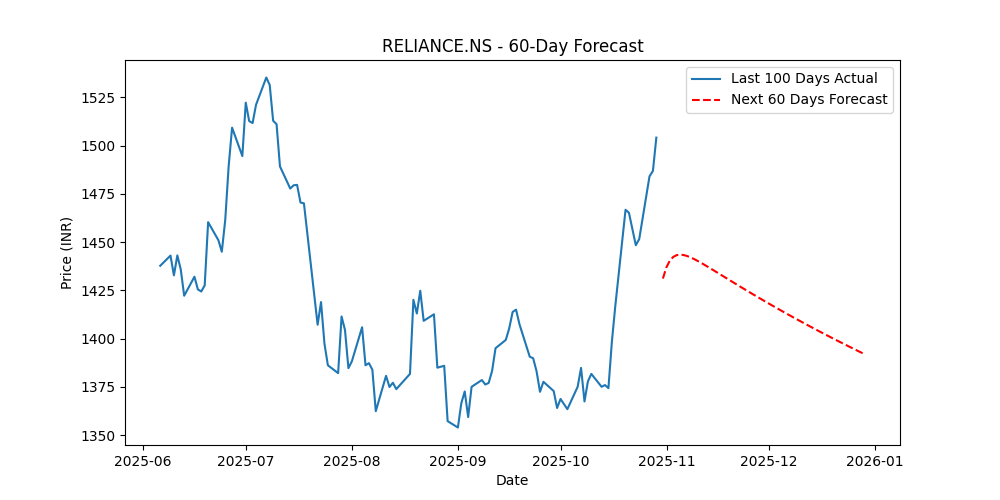
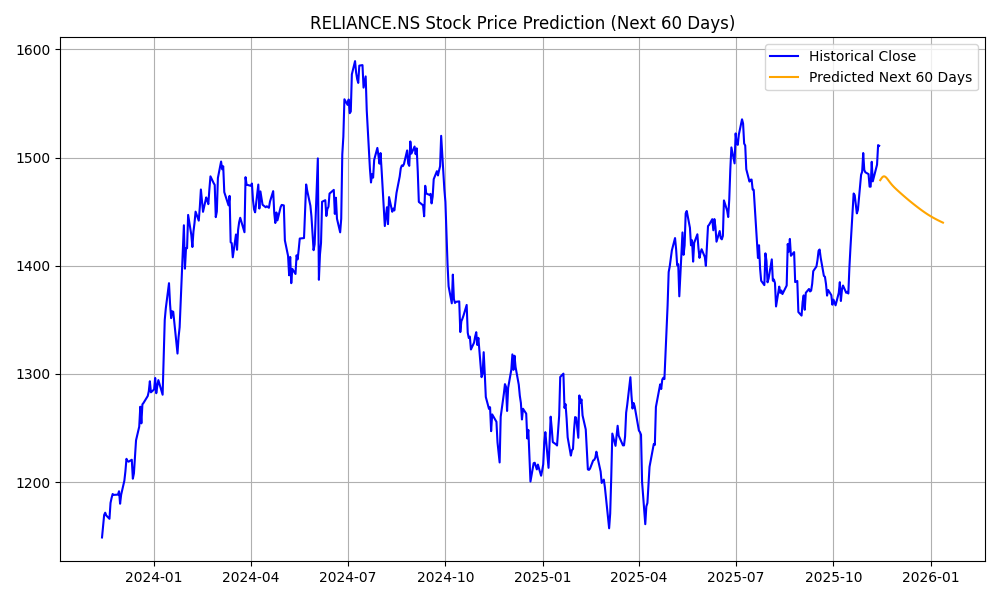
frontend

diff --git a/frontend/script.js b/frontend/script.js
@@ -1,0 +1,63 @@
+
+const backendURL = "http://127.0.0.1:8000";  // Change if your FastAPI runs elsewhere
+
+document.getElementById("stockForm").addEventListener("submit", async (e) => {
+  e.preventDefault();
+
+  const stock = document.getElementById("stockInput").value.trim();
+  const resultDiv = document.getElementById("result");
+  resultDiv.innerHTML = `<div class='alert alert-info'>⏳ Analyzing ${stock}...</div>`;
+
+  try {
+    const formData = new FormData();
+    formData.append("stock", stock);
+
+    // Call API
+    const res = await fetch(`${backendURL}/analyze_stock`, {
+      method: "POST",
+      body: formData,
+    });
+
+    const data = await res.json();
+
+    if (res.ok) {
+      const preview = data.data_preview;
+      const charts = data.charts;
+
+      let tableRows = preview.map(item => `
+        <tr>
+          <td>${item.Date}</td>
+          <td>${item.Predicted_Close.toFixed(2)}</td>
+        </tr>
+      `).join("");
+
+      resultDiv.innerHTML = `
+        <div class="card p-4">
+          <h3>✅ Analysis Complete for ${stock}</h3>
+          <h5 class="mt-3">📊 Predicted Next 10 Days</h5>
+          <div class="table-container">
+            <table class="table table-striped">
+              <thead><tr><th>Date</th><th>Predicted Close</th></tr></thead>
+              <tbody>${tableRows}</tbody>
+            </table>
+          </div>
+
+          <h5 class="mt-4">📈 Charts</h5>
+          <div>
+            <img src="${backendURL}${charts.prediction}" alt="Prediction Chart">
+            <img src="${backendURL}${charts.ema_20_50}" alt="EMA 20/50">
+            <img src="${backendURL}${charts.ema_100_200}" alt="EMA 100/200">
+            <img src="${backendURL}${charts.crossover_signals}" alt="Crossover Signals">
+          </div>
+        </div>
+      `;
+    } else {
+      resultDiv.innerHTML = `<div class='alert alert-danger'>❌ Error: ${data.error}</div>`;
+    }
+
+  } catch (error) {
+    console.error(error);
+    resultDiv.innerHTML = `<div class='alert alert-danger'>❌ Something went wrong. Check backend console.</div>`;
+  }
+});
+

diff --git a/frontend/index.html b/frontend/index.html
@@ -1,0 +1,43 @@
+<!DOCTYPE html>
+<html lang="en">
+<head>
+  <meta charset="UTF-8" />
+  <meta name="viewport" content="width=device-width, initial-scale=1.0" />
+  <title>📈 Stock Price Prediction</title>
+  <link href="https://cdn.jsdelivr.net/npm/bootstrap@5.3.0/dist/css/bootstrap.min.css" rel="stylesheet">
+  <style>
+    body {
+      background: #f8fafc;
+      font-family: 'Poppins', sans-serif;
+      padding: 20px;
+    }
+    .card {
+      border-radius: 15px;
+      box-shadow: 0 4px 12px rgba(0,0,0,0.1);
+      margin-top: 20px;
+    }
+    img {
+      width: 100%;
+      border-radius: 10px;
+      margin-top: 15px;
+    }
+    .table-container {
+      max-height: 400px;
+      overflow-y: auto;
+    }
+  </style>
+</head>
+<body>
+  <div class="container text-center">
+    <h1 class="mb-4">🚀 Stock Price Prediction Dashboard</h1>
+    <form id="stockForm" class="d-flex justify-content-center mb-3">
+      <input type="text" id="stockInput" class="form-control w-50" placeholder="Enter Stock Symbol (e.g. AAPL, TCS.NS)" required>
+      <button type="submit" class="btn btn-primary ms-2">Analyze</button>
+    </form>
+
+    <div id="result"></div>
+  </div>
+
+  <script src="script.js"></script>
+</body>
+</html>

diff --git a/app.py b/app.py
@@ -16,7 +16,7 @@ app = FastAPI(title="📈 Stock Price Prediction API", version="4.0")
 # === Enable CORS ===
 app.add_middleware(
     CORSMiddleware,
-    allow_origins=["*"],        # Allow all origins
+    allow_origins=["*"],        # Allow all origins (for frontend)
     allow_credentials=True,
     allow_methods=["*"],        # Allow all HTTP methods (GET, POST, etc.)
     allow_headers=["*"],        # Allow all headers
@@ -76,24 +76,32 @@ def analyze_stock(stock: str = Form(...)):
         for _ in range(60):
             next_pred = model.predict(current_input, verbose=0)[0, 0]
             future_predictions.append(next_pred)
-            current_input = np.append(current_input[:, 1:, :],
-                                      np.array([[next_pred]]).reshape(1, 1, 1),
-                                      axis=1)
+            current_input = np.append(
+                current_input[:, 1:, :],
+                np.array([[next_pred]]).reshape(1, 1, 1),
+                axis=1
+            )
 
         future_predictions = scaler.inverse_transform(np.array(future_predictions).reshape(-1, 1))
 
-        # --- Prepare DataFrame ---
+        # ✅ --- Prepare DataFrame (Fixed Indentation Issue) ---
         last_date = data.index[-1]
         future_dates = pd.date_range(start=last_date + pd.Timedelta(days=1), periods=60)
-        pred_df = pd.DataFrame({'Date': future_dates, 'Predicted_Close': future_predictions.flatten()})
-        pred_df.set_index('Date', inplace=True)
+
+        # ✅ Create prediction DataFrame (Date as normal column)
+        pred_df = pd.DataFrame({
+            'Date': future_dates,
+            'Predicted_Close': future_predictions.flatten()
+        })
+
+        # ✅ Save CSV with Date as normal column (frontend fix)
         csv_path = f"charts/{stock}_predictions.csv"
-        pred_df.to_csv(csv_path)
+        pred_df.to_csv(csv_path, index=False)
 
         # === Chart 1: Prediction Chart ===
         plt.figure(figsize=(10, 6))
         plt.plot(data['Close'], label='Historical Close', color='blue')
-        plt.plot(pred_df['Predicted_Close'], label='Predicted Next 60 Days', color='orange')
+        plt.plot(pred_df['Date'], pred_df['Predicted_Close'], label='Predicted Next 60 Days', color='orange')
         plt.title(f'{stock} Stock Price Prediction (Next 60 Days)')
         plt.legend()
         plt.grid(True)
@@ -143,14 +151,12 @@ def analyze_stock(stock: str = Form(...)):
         plt.plot(data['Close'], label='Close Price', color='blue', alpha=0.7)
         plt.plot(data['EMA_20'], label='EMA 20', color='green', alpha=0.8)
         plt.plot(data['EMA_50'], label='EMA 50', color='red', alpha=0.8)
-
         plt.scatter(data.index[data['Crossover'] == 1],
                     data['Close'][data['Crossover'] == 1],
                     label='Buy Signal', marker='^', color='green', s=100)
         plt.scatter(data.index[data['Crossover'] == -1],
                     data['Close'][data['Crossover'] == -1],
                     label='Sell Signal', marker='v', color='red', s=100)
-
         plt.title(f"{stock} - EMA 20/50 Crossover Buy & Sell Signals")
         plt.legend()
         plt.grid(True)
